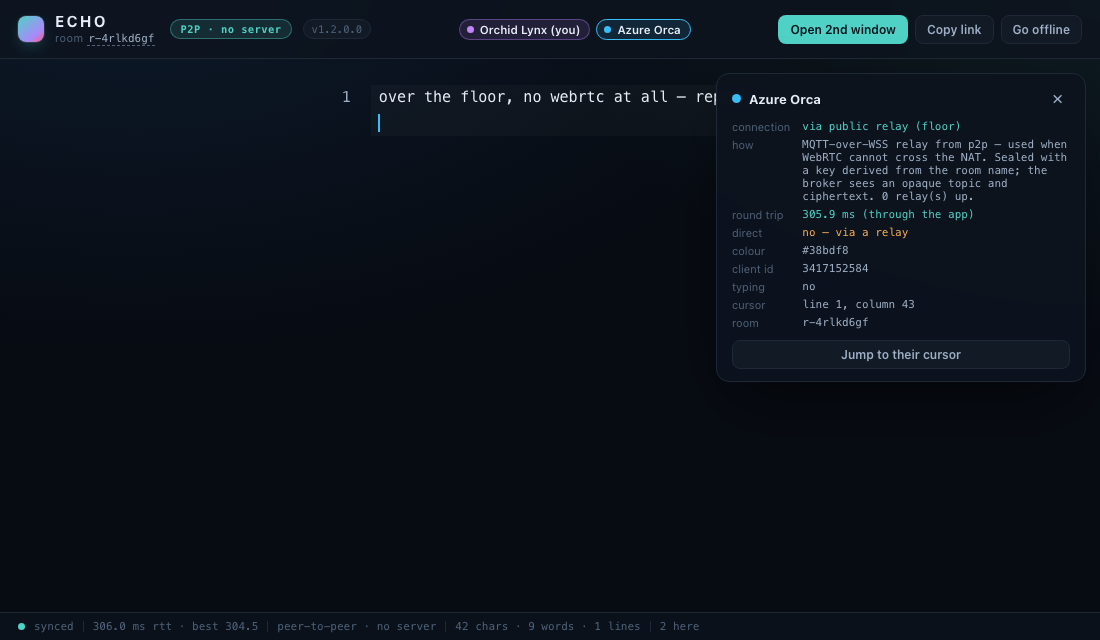
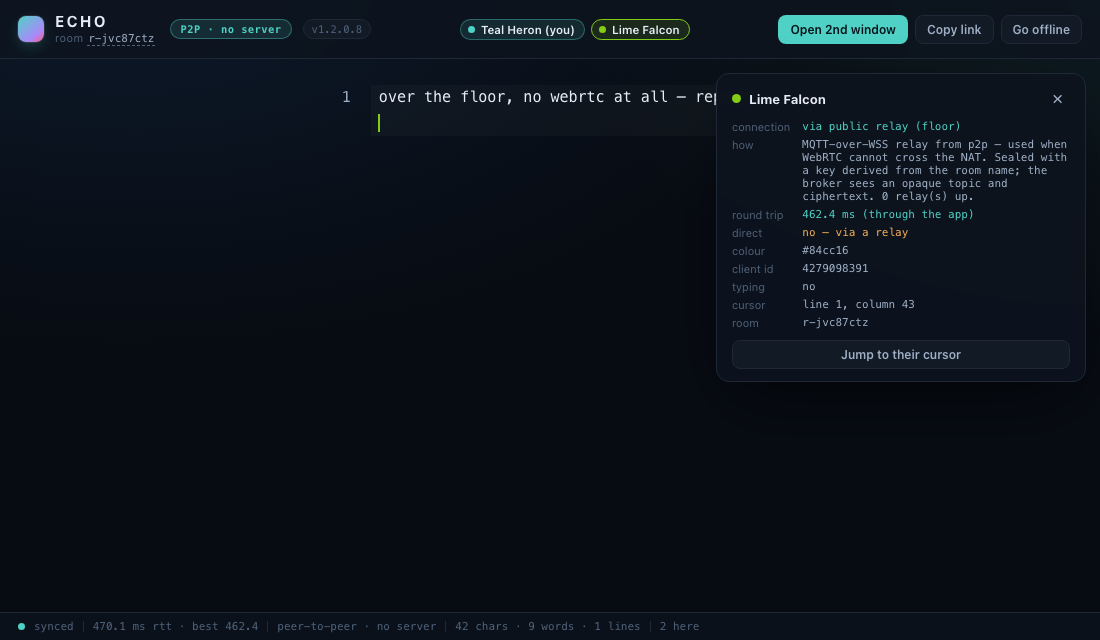
fix: switching rooms via the URL now swaps immediately
The room was bound once at load, so navigating to a new #hash on an already-open
page changed the address bar and nothing else — the swap only happened when the
user thought to reload. A hashchange listener now performs the swap the moment
the hash changes. Everything is room-scoped (provider, editor binding, undo
stack, seeding), so a reload is the clean swap; it is simply automatic now.

Verified: same loaded page moved room-one → room-two by URL alone (label
updates, content isolated), room-three via the room-name button, then back to
room-one with its text intact.

diff --git a/src/main.js b/src/main.js
@@ -53,6 +53,15 @@ const room = (location.hash.slice(1) || new URLSearchParams(location.search).get
   .slice(0, 128) || 'lobby';
 if (location.hash.slice(1) !== room) history.replaceState(null, '', `#${room}`);
 
+// The room is bound at load, so navigating to a new #hash on an already-open
+// page must swap rooms right then — not on whenever the user thinks to reload.
+// Everything is room-scoped (provider, editor binding, undo stack, seed), so a
+// reload IS the clean swap; this just makes it automatic and instant.
+addEventListener('hashchange', () => {
+  const next = location.hash.slice(1).replace(/[^\w.:-]/g, '');
+  if (next && next !== room) location.reload();
+});
+
 const identity = loadIdentity();
 
 const doc = new Y.Doc();
@@ -518,8 +527,8 @@ document.getElementById('room-name').textContent = room;
 document.getElementById('room-name').addEventListener('click', () => {
   const next = prompt('Room name', room)?.trim();
   if (!next || next === room) return;
+  // Setting the hash fires the hashchange listener above, which reloads.
   location.hash = next.replace(/[^\w.:-]/g, '');
-  location.reload();
 });
 
 document.getElementById('open-window').addEventListener('click', () => {
